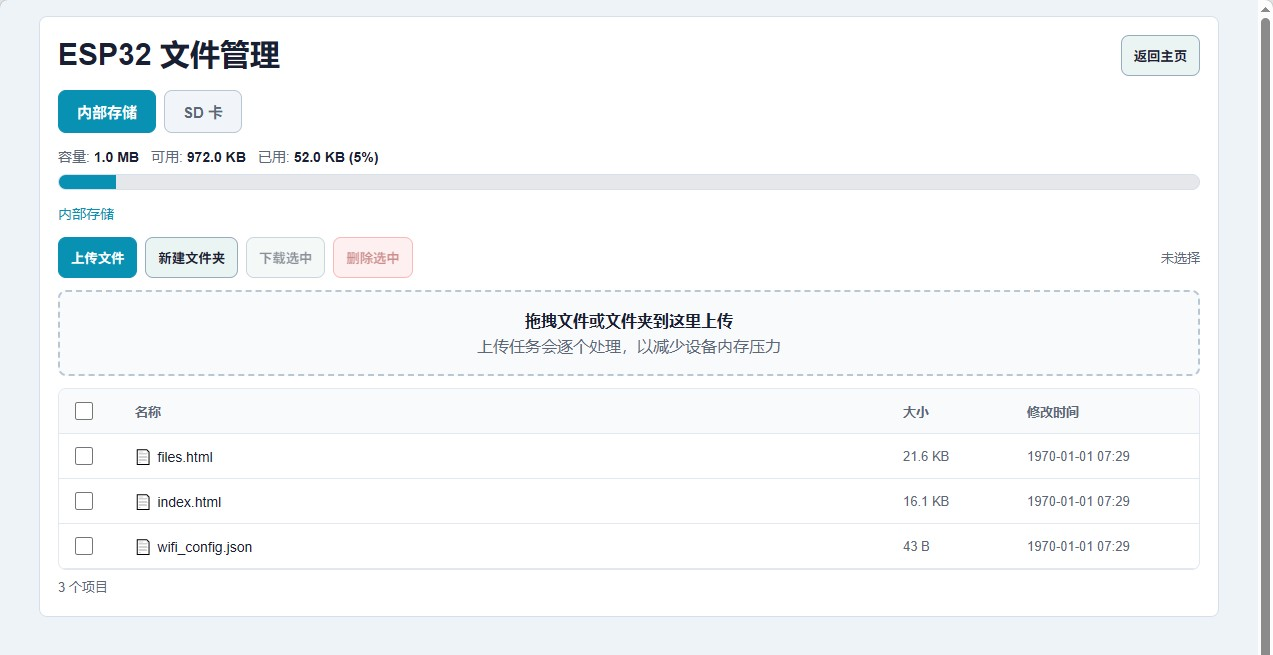
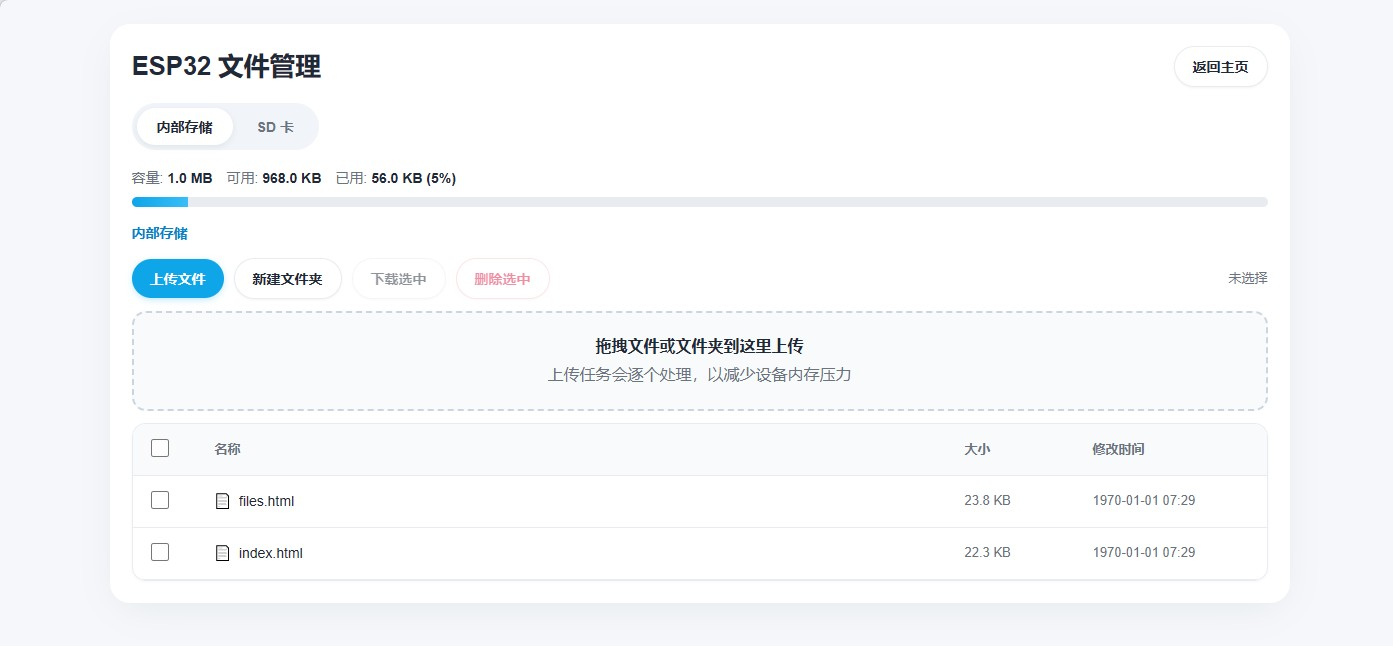
refactor: restyle file manager page and refresh screenshots
Match the file manager to the dashboard theme: CSS variable
palette, rounded borderless card, segmented pill tabs, pill
buttons with a flat sky-blue primary, and a color-coded
capacity bar (green/orange/red). Refresh the homepage and
file-manager screenshots in img/.

diff --git a/data/files.html b/data/files.html
@@ -5,60 +5,78 @@
   <meta name="viewport" content="width=device-width,initial-scale=1">
   <title>ESP32 文件管理</title>
   <style>
-    body{margin:0;min-height:100vh;padding:16px;font-family:Arial,'Microsoft YaHei',sans-serif;background:#eef3f7;color:#172033}
-    main{width:min(1180px,100%);margin:0 auto;display:grid;gap:14px}
-    h1{margin:0;font-size:30px;line-height:1.15}
-    button{border:1px solid #97acbf;background:#eaf4f2;color:#172033;border-radius:8px;padding:10px 12px;font-weight:700;cursor:pointer}
-    button:disabled{opacity:.5;cursor:not-allowed}
-    button.primary{background:#0891b2;border-color:#0891b2;color:#fff}
-    button.primary:hover:not(:disabled){background:#0e7490}
-    button.danger{background:#fee2e2;border-color:#f87171;color:#991b1b}
-    button.danger:hover:not(:disabled){background:#fecaca}
-    .top{display:flex;gap:12px;align-items:center;justify-content:space-between;margin-bottom:14px}
-    .actions{display:flex;gap:8px;flex-wrap:wrap;justify-content:flex-end}
-    .panel{background:#fff;border:1px solid #d7e0ea;border-radius:8px;padding:18px}
-    .tabs{display:flex;gap:8px;margin-bottom:14px}
-    .tab{border:1px solid #b8c7d4;background:#f1f5f9;color:#5c6878;border-radius:8px;padding:10px 18px;font-weight:700;cursor:pointer;font-size:15px}
-    .tab.active{background:#0891b2;color:#fff;border-color:#0891b2}
-    .capacity{margin-bottom:14px}
-    .capacity-info{display:flex;gap:12px;align-items:center;flex-wrap:wrap;color:#5c6878;font-size:14px;margin-bottom:8px}
-    .capacity-info b{color:#172033}
-    .capacity-bar{height:14px;border-radius:999px;background:#e5e7eb;overflow:hidden;border:1px solid #d7e0ea}
-    .capacity-bar span{display:block;height:100%;background:#0891b2;transition:width .2s ease}
-    .breadcrumb{display:flex;gap:4px;align-items:center;flex-wrap:wrap;margin-bottom:14px;color:#5c6878;font-size:14px}
-    .breadcrumb a{color:#0891b2;text-decoration:none;cursor:pointer}
+    :root{
+      --bg:#F5F7FA;--card:#FFFFFF;--line:#E8ECF1;
+      --text:#1F2937;--muted:#6B7280;--faint:#9CA3AF;
+      --primary:#0EA5E9;--primary-deep:#0284C7;--primary-bg:#E0F2FE;
+      --violet:#8B5CF6;--violet-bg:#EDE9FE;
+      --ok:#10B981;--ok-bg:#D1FAE5;
+      --warn:#F59E0B;--warn-bg:#FEF3C7;
+      --err:#EF4444;--err-bg:#FEE2E2;
+      --info:#3B82F6;--info-bg:#DBEAFE;
+      --radius-lg:20px;--radius-md:14px;--radius-sm:10px;
+      --shadow:0 10px 40px -10px rgba(15,23,42,.07);
+      --shadow-hover:0 18px 45px -12px rgba(15,23,42,.12);
+      --font:-apple-system,BlinkMacSystemFont,"SF Pro Text","Helvetica Neue",Arial,"Microsoft YaHei",sans-serif;
+    }
+    body{margin:0;min-height:100vh;padding:24px;font-family:var(--font);background:var(--bg);color:var(--text);-webkit-font-smoothing:antialiased;line-height:1.5}
+    main{width:min(1180px,100%);margin:0 auto;display:grid;gap:18px}
+    h1{margin:0;font-size:26px;line-height:1.15;letter-spacing:-.3px}
+    button{font-family:inherit;font-size:14px;border:1px solid var(--line);background:#fff;color:var(--text);border-radius:999px;padding:10px 18px;font-weight:600;cursor:pointer;box-shadow:0 1px 2px rgba(15,23,42,.05);transition:transform .15s,box-shadow .15s,border-color .15s}
+    button:hover:not(:disabled){transform:translateY(-1px);box-shadow:var(--shadow-hover);border-color:#CBD5E1}
+    button:disabled{opacity:.5;cursor:not-allowed;transform:none}
+    button.primary{background:#0EA5E9;border:0;color:#fff;box-shadow:0 2px 8px -2px rgba(14,165,233,.4)}
+    button.primary:hover:not(:disabled){background:#0284C7;box-shadow:0 4px 12px -4px rgba(14,165,233,.5)}
+    button.danger{background:#fff;border:1px solid #FECACA;color:#E11D48}
+    button.danger:hover:not(:disabled){background:var(--err-bg);border-color:#FCA5A5}
+    .top{display:flex;gap:14px;align-items:center;justify-content:space-between;margin-bottom:4px;flex-wrap:wrap}
+    .actions{display:flex;gap:10px;flex-wrap:wrap;justify-content:flex-end}
+    .panel{background:var(--card);border-radius:var(--radius-lg);padding:22px;box-shadow:var(--shadow)}
+    .tabs{display:flex;gap:4px;margin:16px 0 18px;background:#F1F5F9;padding:5px;border-radius:999px;width:fit-content}
+    .tab{border:0;background:transparent;color:var(--muted);border-radius:999px;padding:9px 20px;font-weight:600;cursor:pointer;font-size:14px;box-shadow:none}
+    .tab:hover:not(:disabled){transform:none;box-shadow:none;background:#E2E8F0}
+    .tab.active{background:#fff;color:var(--text);box-shadow:0 2px 6px rgba(15,23,42,.08)}
+    .capacity{margin-bottom:16px}
+    .capacity-info{display:flex;gap:14px;align-items:center;flex-wrap:wrap;color:var(--muted);font-size:14px;margin-bottom:8px}
+    .capacity-info b{color:var(--text);font-weight:600}
+    .capacity-bar{height:10px;border-radius:999px;background:#E8ECF1;overflow:hidden}
+    .capacity-bar span{display:block;height:100%;background:linear-gradient(90deg,#0EA5E9,#38BDF8);transition:width .2s ease}
+    .capacity-bar span.warn{background:linear-gradient(90deg,#F59E0B,#FBBF24)}
+    .capacity-bar span.danger{background:linear-gradient(90deg,#EF4444,#F87171)}
+    .breadcrumb{display:flex;gap:4px;align-items:center;flex-wrap:wrap;margin-bottom:14px;color:var(--muted);font-size:14px}
+    .breadcrumb a{color:var(--primary-deep);text-decoration:none;cursor:pointer;font-weight:600}
     .breadcrumb a:hover{text-decoration:underline}
-    .breadcrumb span{color:#5c6878}
+    .breadcrumb span{color:var(--faint)}
     .navigation-busy .breadcrumb a,.navigation-busy .name-link{pointer-events:none;opacity:.55;cursor:wait}
-    .toolbar{display:flex;gap:8px;align-items:center;flex-wrap:wrap;margin-bottom:12px}
-    .toolbar .count{margin-left:auto;color:#5c6878;font-size:13px}
-    .operation-progress{margin-bottom:12px;padding:10px 12px;border-radius:8px;background:#f1f5f9;border:1px solid #d7e0ea}
-    .operation-progress-info{display:flex;justify-content:space-between;gap:12px;margin-bottom:6px;color:#5c6878;font-size:13px}
-    .operation-progress-bar{height:10px;border-radius:999px;background:#e2e8f0;overflow:hidden}
-    .operation-progress-bar span{display:block;height:100%;width:0;background:#0891b2;transition:width .2s ease}
-    .drop-zone{margin-bottom:12px;padding:18px;border:2px dashed #b8c7d4;border-radius:8px;text-align:center;color:#5c6878;background:#f8fafc;transition:border-color .2s,background .2s}
-    .drop-zone.dragover{border-color:#0891b2;background:#ecfeff;color:#0e7490}
-    .drop-zone:focus-visible{outline:3px solid #67e8f9;outline-offset:2px}
-    .drop-zone strong{display:block;color:#172033;margin-bottom:4px}
+    .toolbar{display:flex;gap:10px;align-items:center;flex-wrap:wrap;margin-bottom:12px}
+    .toolbar .count{margin-left:auto;color:var(--muted);font-size:13px}
+    .operation-progress{margin-bottom:12px;padding:12px 16px;border-radius:var(--radius-md);background:#F8FAFC;border:1px solid var(--line)}
+    .operation-progress-info{display:flex;justify-content:space-between;gap:12px;margin-bottom:6px;color:var(--muted);font-size:13px}
+    .operation-progress-bar{height:8px;border-radius:999px;background:#E8ECF1;overflow:hidden}
+    .operation-progress-bar span{display:block;height:100%;width:0;background:linear-gradient(90deg,#0EA5E9,#38BDF8);transition:width .2s ease}
+    .drop-zone{margin-bottom:12px;padding:22px;border:2px dashed #CBD5E1;border-radius:var(--radius-md);text-align:center;color:var(--muted);background:#F8FAFC;transition:border-color .2s,background .2s}
+    .drop-zone.dragover{border-color:var(--primary);background:var(--primary-bg);color:var(--primary-deep)}
+    .drop-zone:focus-visible{outline:3px solid rgba(14,165,233,.25);outline-offset:2px}
+    .drop-zone strong{display:block;color:var(--text);margin-bottom:4px;font-weight:600}
     table{width:100%;border-collapse:collapse;font-size:14px}
-    th,td{text-align:left;padding:10px 12px;border-bottom:1px solid #e2e8f0}
-    th{background:#f8fafc;color:#5c6878;font-weight:700;font-size:13px;position:sticky;top:0}
-    td{color:#172033}
-    tr:hover td{background:#f1f5f9}
-    .name-link{color:#0891b2;cursor:pointer;text-decoration:none;font-weight:600}
+    th,td{text-align:left;padding:12px 14px;border-bottom:1px solid var(--line)}
+    th{background:#F8FAFC;color:var(--muted);font-weight:600;font-size:13px;position:sticky;top:0}
+    td{color:var(--text)}
+    tr:hover td{background:#F8FAFC}
+    .name-link{color:var(--primary-deep);cursor:pointer;text-decoration:none;font-weight:600}
     .name-link:hover{text-decoration:underline}
-    .folder-icon{margin-right:6px}
-    .file-icon{margin-right:6px;color:#5c6878}
-    .empty{text-align:center;color:#5c6878;padding:40px 20px}
-    .sd-unavailable{text-align:center;padding:40px 20px;color:#92400e;background:#fef3c7;border-radius:8px;margin-top:14px}
-    .size{color:#5c6878;font-size:13px}
-    .time{color:#5c6878;font-size:13px}
-    .table-wrap{overflow-x:auto;max-height:60vh;overflow-y:auto;border:1px solid #e2e8f0;border-radius:8px}
-    input[type=checkbox]{width:18px;height:18px;cursor:pointer;accent-color:#0891b2}
-    .status{color:#5c6878;font-size:13px;min-height:20px;margin-top:8px}
-    .status.error{color:#991b1b}
-    .status.success{color:#166534}
-    @media(max-width:760px){body{padding:10px}.capacity-info{flex-direction:column;align-items:flex-start;gap:4px}th,td{padding:8px 8px;font-size:13px}.hide-mobile{display:none}}
+    .folder-icon{margin-right:8px}
+    .file-icon{margin-right:8px;color:var(--muted)}
+    .empty{text-align:center;color:var(--muted);padding:40px 20px}
+    .sd-unavailable{text-align:center;padding:40px 20px;color:#92400e;background:var(--warn-bg);border-radius:var(--radius-md);margin-top:14px}
+    .size{color:var(--muted);font-size:13px}
+    .time{color:var(--muted);font-size:13px}
+    .table-wrap{overflow-x:auto;max-height:60vh;overflow-y:auto;border:1px solid var(--line);border-radius:var(--radius-md);box-shadow:0 1px 3px rgba(15,23,42,.03)}
+    input[type=checkbox]{width:18px;height:18px;cursor:pointer;accent-color:var(--primary)}
+    .status{color:var(--muted);font-size:13px;min-height:20px;margin-top:10px}
+    .status.error{color:var(--err)}
+    .status.success{color:var(--ok)}
+    @media(max-width:760px){body{padding:16px}.capacity-info{flex-direction:column;align-items:flex-start;gap:4px}th,td{padding:10px;font-size:13px}.hide-mobile{display:none}}
   </style>
 </head>
 <body>
@@ -199,7 +217,10 @@ function updateCapacityBar(total,free,mounted){
   document.getElementById('capTotal').textContent=mounted?formatBytes(total):'--';
   document.getElementById('capFree').textContent=mounted?formatBytes(free):'--';
   document.getElementById('capUsed').textContent=mounted?formatBytes(used)+' ('+pct+'%)':'--';
-  document.getElementById('capBar').style.width=mounted?pct+'%':'0';
+  const capBar=document.getElementById('capBar');
+  capBar.style.width=mounted?pct+'%':'0';
+  capBar.classList.toggle('warn',pct>=70&&pct<85);
+  capBar.classList.toggle('danger',pct>=85);
 }
 
 function updateBreadcrumb(fs,path){
